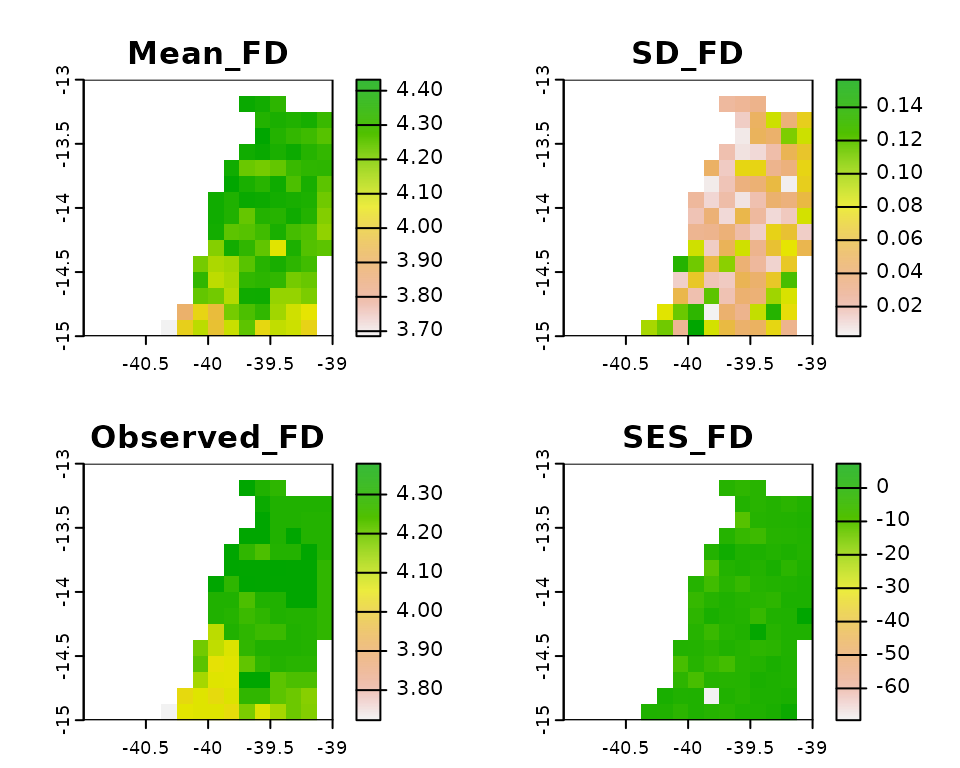
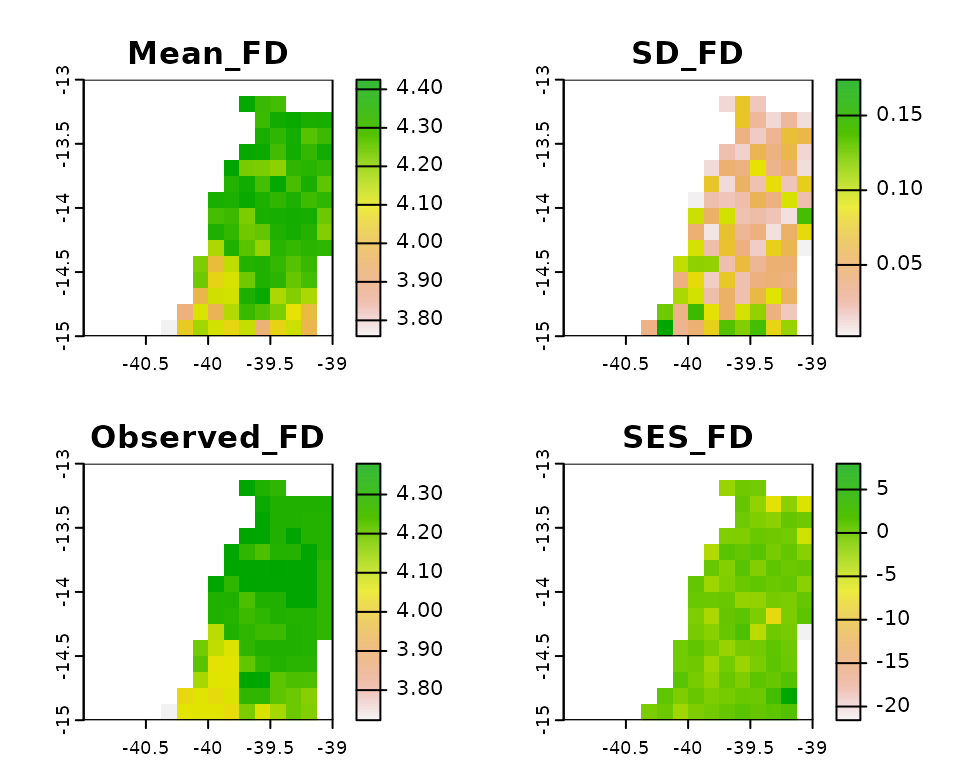
Deploying to gh-pages from @ flaviomoc/divraster@bc85901466886749bb0931f54b30c901a4cb85b3 🚀

diff --git a/articles/DMSD-vignette.html b/articles/DMSD-vignette.html
@@ -260,9 +260,9 @@ PD alpha diversity.</p>
 <span><span class="co">#&gt; extent      : -41, -39, -15, -13  (xmin, xmax, ymin, ymax)</span></span>
 <span><span class="co">#&gt; coord. ref. : lon/lat WGS 84 (EPSG:4326) </span></span>
 <span><span class="co">#&gt; source(s)   : memory</span></span>
-<span><span class="co">#&gt; names       :  Mean_FD,       SD_FD, Observed_FD,    SES_FD </span></span>
-<span><span class="co">#&gt; min values  : 3.685425, 0.002187112,    3.723151, -69.52356 </span></span>
-<span><span class="co">#&gt; max values  : 4.432095, 0.156656649,    4.378846,   7.28960</span></span>
+<span><span class="co">#&gt; names       :  Mean_FD,       SD_FD, Observed_FD,     SES_FD </span></span>
+<span><span class="co">#&gt; min values  : 3.758846, 0.002315378,    3.723151, -21.573172 </span></span>
+<span><span class="co">#&gt; max values  : 4.425062, 0.173984410,    4.378846,   7.978274</span></span>
 <span><span class="fu">terra</span><span class="fu">::</span><span class="fu"><a href="https://rdrr.io/pkg/terra/man/plot.html" class="external-link">plot</a></span><span class="op">(</span><span class="va">ses.fd</span>, main <span class="op">=</span> <span class="fu"><a href="https://rdrr.io/r/base/names.html" class="external-link">names</a></span><span class="op">(</span><span class="va">ses.fd</span><span class="op">)</span><span class="op">)</span></span></code></pre></div>
 <p><img src="DMSD-vignette_files/figure-html/unnamed-chunk-6-1.png" width="480" style="display: block; margin: auto;"></p>
 <div class="sourceCode" id="cb8"><pre class="downlit sourceCode r">
@@ -276,9 +276,9 @@ PD alpha diversity.</p>
 <span><span class="co">#&gt; extent      : -41, -39, -15, -13  (xmin, xmax, ymin, ymax)</span></span>
 <span><span class="co">#&gt; coord. ref. : lon/lat WGS 84 (EPSG:4326) </span></span>
 <span><span class="co">#&gt; source(s)   : memory</span></span>
-<span><span class="co">#&gt; names       :  Mean_PD,      SD_PD, Observed_PD,     SES_PD </span></span>
-<span><span class="co">#&gt; min values  : 1540.054,   1.172623,    1623.451, -14.822089 </span></span>
-<span><span class="co">#&gt; max values  : 1874.545, 141.179734,    1880.676,   5.827002</span></span>
+<span><span class="co">#&gt; names       :  Mean_PD,    SD_PD, Observed_PD,    SES_PD </span></span>
+<span><span class="co">#&gt; min values  : 1623.352,  1.14636,    1623.451, -5.894651 </span></span>
+<span><span class="co">#&gt; max values  : 1876.303, 86.43440,    1880.676,  9.573102</span></span>
 <span><span class="fu">terra</span><span class="fu">::</span><span class="fu"><a href="https://rdrr.io/pkg/terra/man/plot.html" class="external-link">plot</a></span><span class="op">(</span><span class="va">ses.pd</span>, main <span class="op">=</span> <span class="fu"><a href="https://rdrr.io/r/base/names.html" class="external-link">names</a></span><span class="op">(</span><span class="va">ses.pd</span><span class="op">)</span><span class="op">)</span></span></code></pre></div>
 <p><img src="DMSD-vignette_files/figure-html/unnamed-chunk-6-2.png" width="480" style="display: block; margin: auto;"></p>
 </div>

diff --git a/reference/spat.rand.html b/reference/spat.rand.html
@@ -137,8 +137,8 @@ a calling function.</p></dd>
 <span class="r-out co"><span class="r-pr">#&gt;</span> coord. ref. : lon/lat WGS 84 (EPSG:4326) </span>
 <span class="r-out co"><span class="r-pr">#&gt;</span> source(s)   : memory</span>
 <span class="r-out co"><span class="r-pr">#&gt;</span> names       :  Mean_PD,      SD_PD, Observed_PD,    SES_PD </span>
-<span class="r-out co"><span class="r-pr">#&gt;</span> min values  : 3.800922, 0.07592166,    3.359948, -5.434059 </span>
-<span class="r-out co"><span class="r-pr">#&gt;</span> max values  : 9.773379, 0.87104392,   10.571964,  3.399689 </span>
+<span class="r-out co"><span class="r-pr">#&gt;</span> min values  : 3.872901, 0.05406634,    3.359948, -9.487467 </span>
+<span class="r-out co"><span class="r-pr">#&gt;</span> max values  : 9.729261, 1.15653613,   10.571964,  7.179864 </span>
 <span class="r-in"><span><span class="fu">spat.rand</span><span class="op">(</span><span class="va">x</span>, <span class="va">traits</span>, <span class="fl">3</span>, <span class="st">"site"</span><span class="op">)</span></span></span>
 <span class="r-out co"><span class="r-pr">#&gt;</span> class       : SpatRaster </span>
 <span class="r-out co"><span class="r-pr">#&gt;</span> dimensions  : 8, 8, 4  (nrow, ncol, nlyr)</span>
@@ -146,9 +146,9 @@ a calling function.</p></dd>
 <span class="r-out co"><span class="r-pr">#&gt;</span> extent      : 0, 1, 0, 1  (xmin, xmax, ymin, ymax)</span>
 <span class="r-out co"><span class="r-pr">#&gt;</span> coord. ref. : lon/lat WGS 84 (EPSG:4326) </span>
 <span class="r-out co"><span class="r-pr">#&gt;</span> source(s)   : memory</span>
-<span class="r-out co"><span class="r-pr">#&gt;</span> names       :   Mean_FD,      SD_FD, Observed_FD,    SES_FD </span>
-<span class="r-out co"><span class="r-pr">#&gt;</span> min values  : 0.3170508, 0.01408229,   0.2374052, -3.590463 </span>
-<span class="r-out co"><span class="r-pr">#&gt;</span> max values  : 1.1970382, 0.21088569,   1.2493508, 13.466115 </span>
+<span class="r-out co"><span class="r-pr">#&gt;</span> names       :   Mean_FD,       SD_FD, Observed_FD,    SES_FD </span>
+<span class="r-out co"><span class="r-pr">#&gt;</span> min values  : 0.5285021, 0.009312925,   0.2374052, -37.66849 </span>
+<span class="r-out co"><span class="r-pr">#&gt;</span> max values  : 1.2248022, 0.199672349,   1.2493508,   7.33785 </span>
 <span class="r-in"><span></span></span>
 </code></pre></div>
     </div>

diff --git a/news/index.html b/news/index.html
@@ -51,13 +51,14 @@
     </div>
 
     <div class="section level2">
+<h2 class="pkg-version" data-toc-text="1.0.3" id="divraster-103">divraster 1.0.3<a class="anchor" aria-label="anchor" href="#divraster-103"></a></h2>
+<ul><li>Improvements in function descriptions.</li>
+<li>Minor correction in function tests.</li>
+<li>Citation file added <a href="https://github.com/flaviomoc/divraster/issues/2" class="external-link">#2</a>.</li>
+</ul></div>
+    <div class="section level2">
 <h2 class="pkg-version" data-toc-text="1.0.2" id="divraster-102">divraster 1.0.2<a class="anchor" aria-label="anchor" href="#divraster-102"></a></h2><p class="text-muted">CRAN release: 2023-06-27</p>
-</div>
-    <div class="section level2">
-<h2 class="pkg-version" data-toc-text="1.0.1" id="divraster-101">divraster 1.0.1<a class="anchor" aria-label="anchor" href="#divraster-101"></a></h2>
-</div>
-    <div class="section level2">
-<h2 class="pkg-version" data-toc-text="1.0.0" id="divraster-100">divraster 1.0.0<a class="anchor" aria-label="anchor" href="#divraster-100"></a></h2>
+<p>Released 2023-06-27</p>
 <ul><li>Initial CRAN submission.</li>
 </ul></div>
   </main><aside class="col-md-3"><nav id="toc"><h2>On this page</h2>

diff --git a/index.html b/index.html
@@ -95,7 +95,7 @@
 <div class="section level2">
 <h2 id="load-data">Load data<a class="anchor" aria-label="anchor" href="#load-data"></a>
 </h2>
-<p>You can use a <code>divraster</code> function to load the data:</p>
+<p>You can use a <code>divraster</code> function to load an example dataset:</p>
 <div class="sourceCode" id="cb3"><pre class="downlit sourceCode r">
 <code class="sourceCode R"><span><span class="kw"><a href="https://rdrr.io/r/base/library.html" class="external-link">library</a></span><span class="op">(</span><span class="va"><a href="https://github.com/flaviomoc/divraster" class="external-link">divraster</a></span><span class="op">)</span></span>
 <span><span class="va">data</span> <span class="op">&lt;-</span> <span class="fu"><a href="reference/load.data.html">load.data</a></span><span class="op">(</span><span class="op">)</span></span></code></pre></div>
